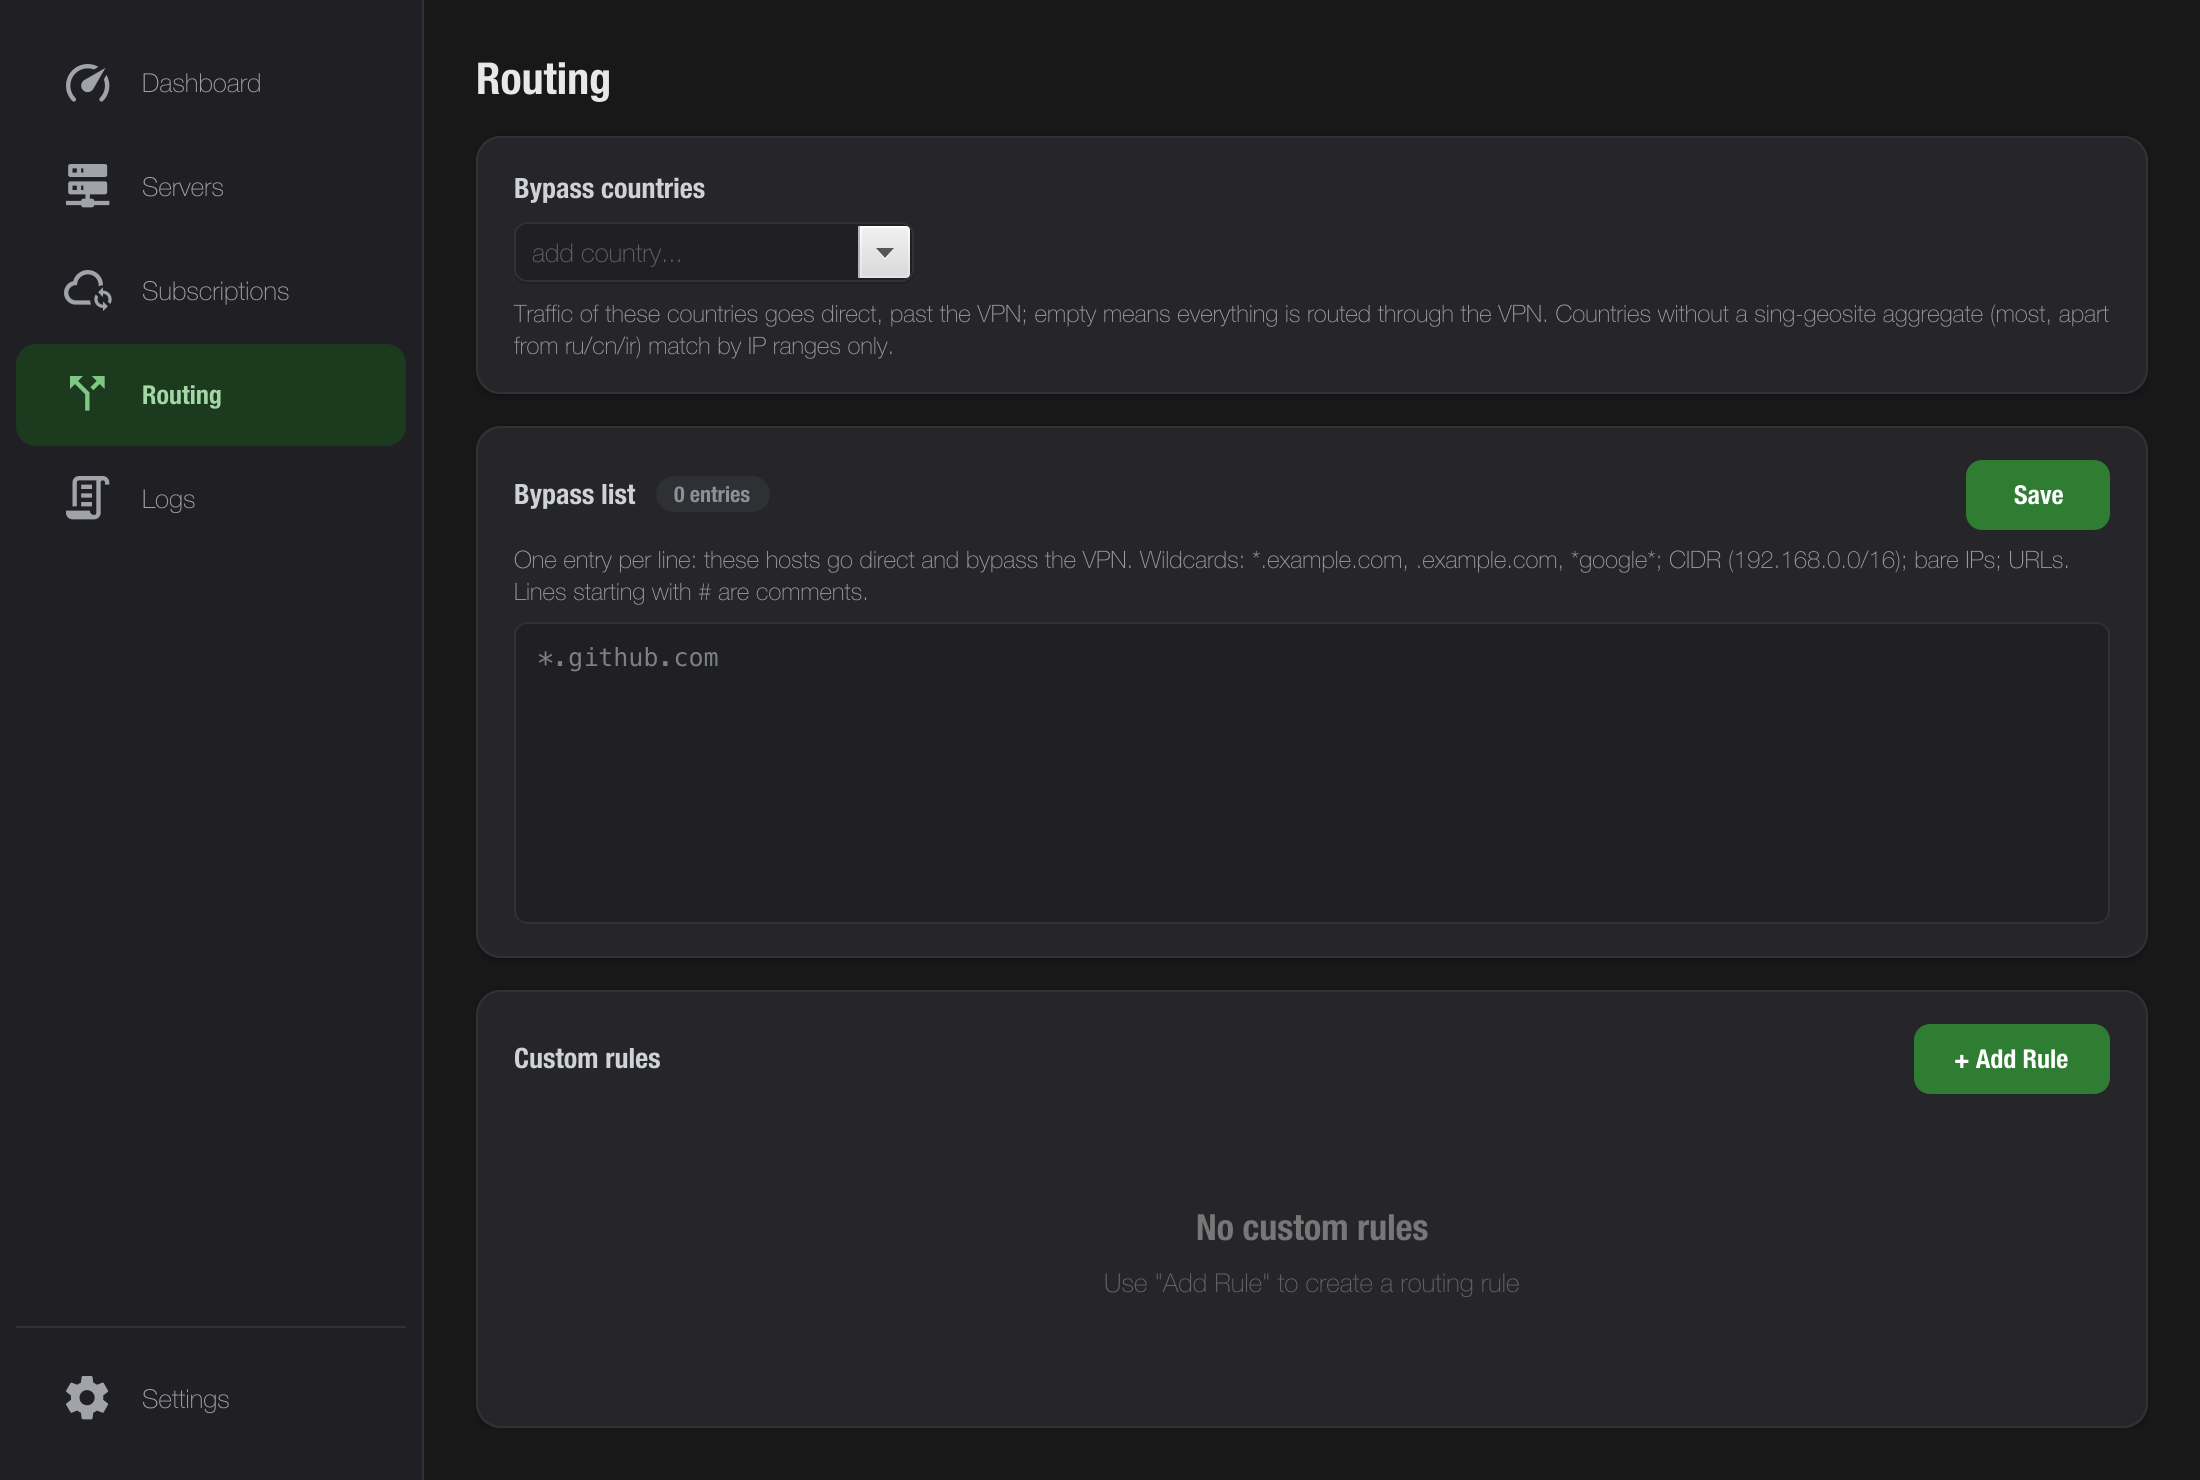
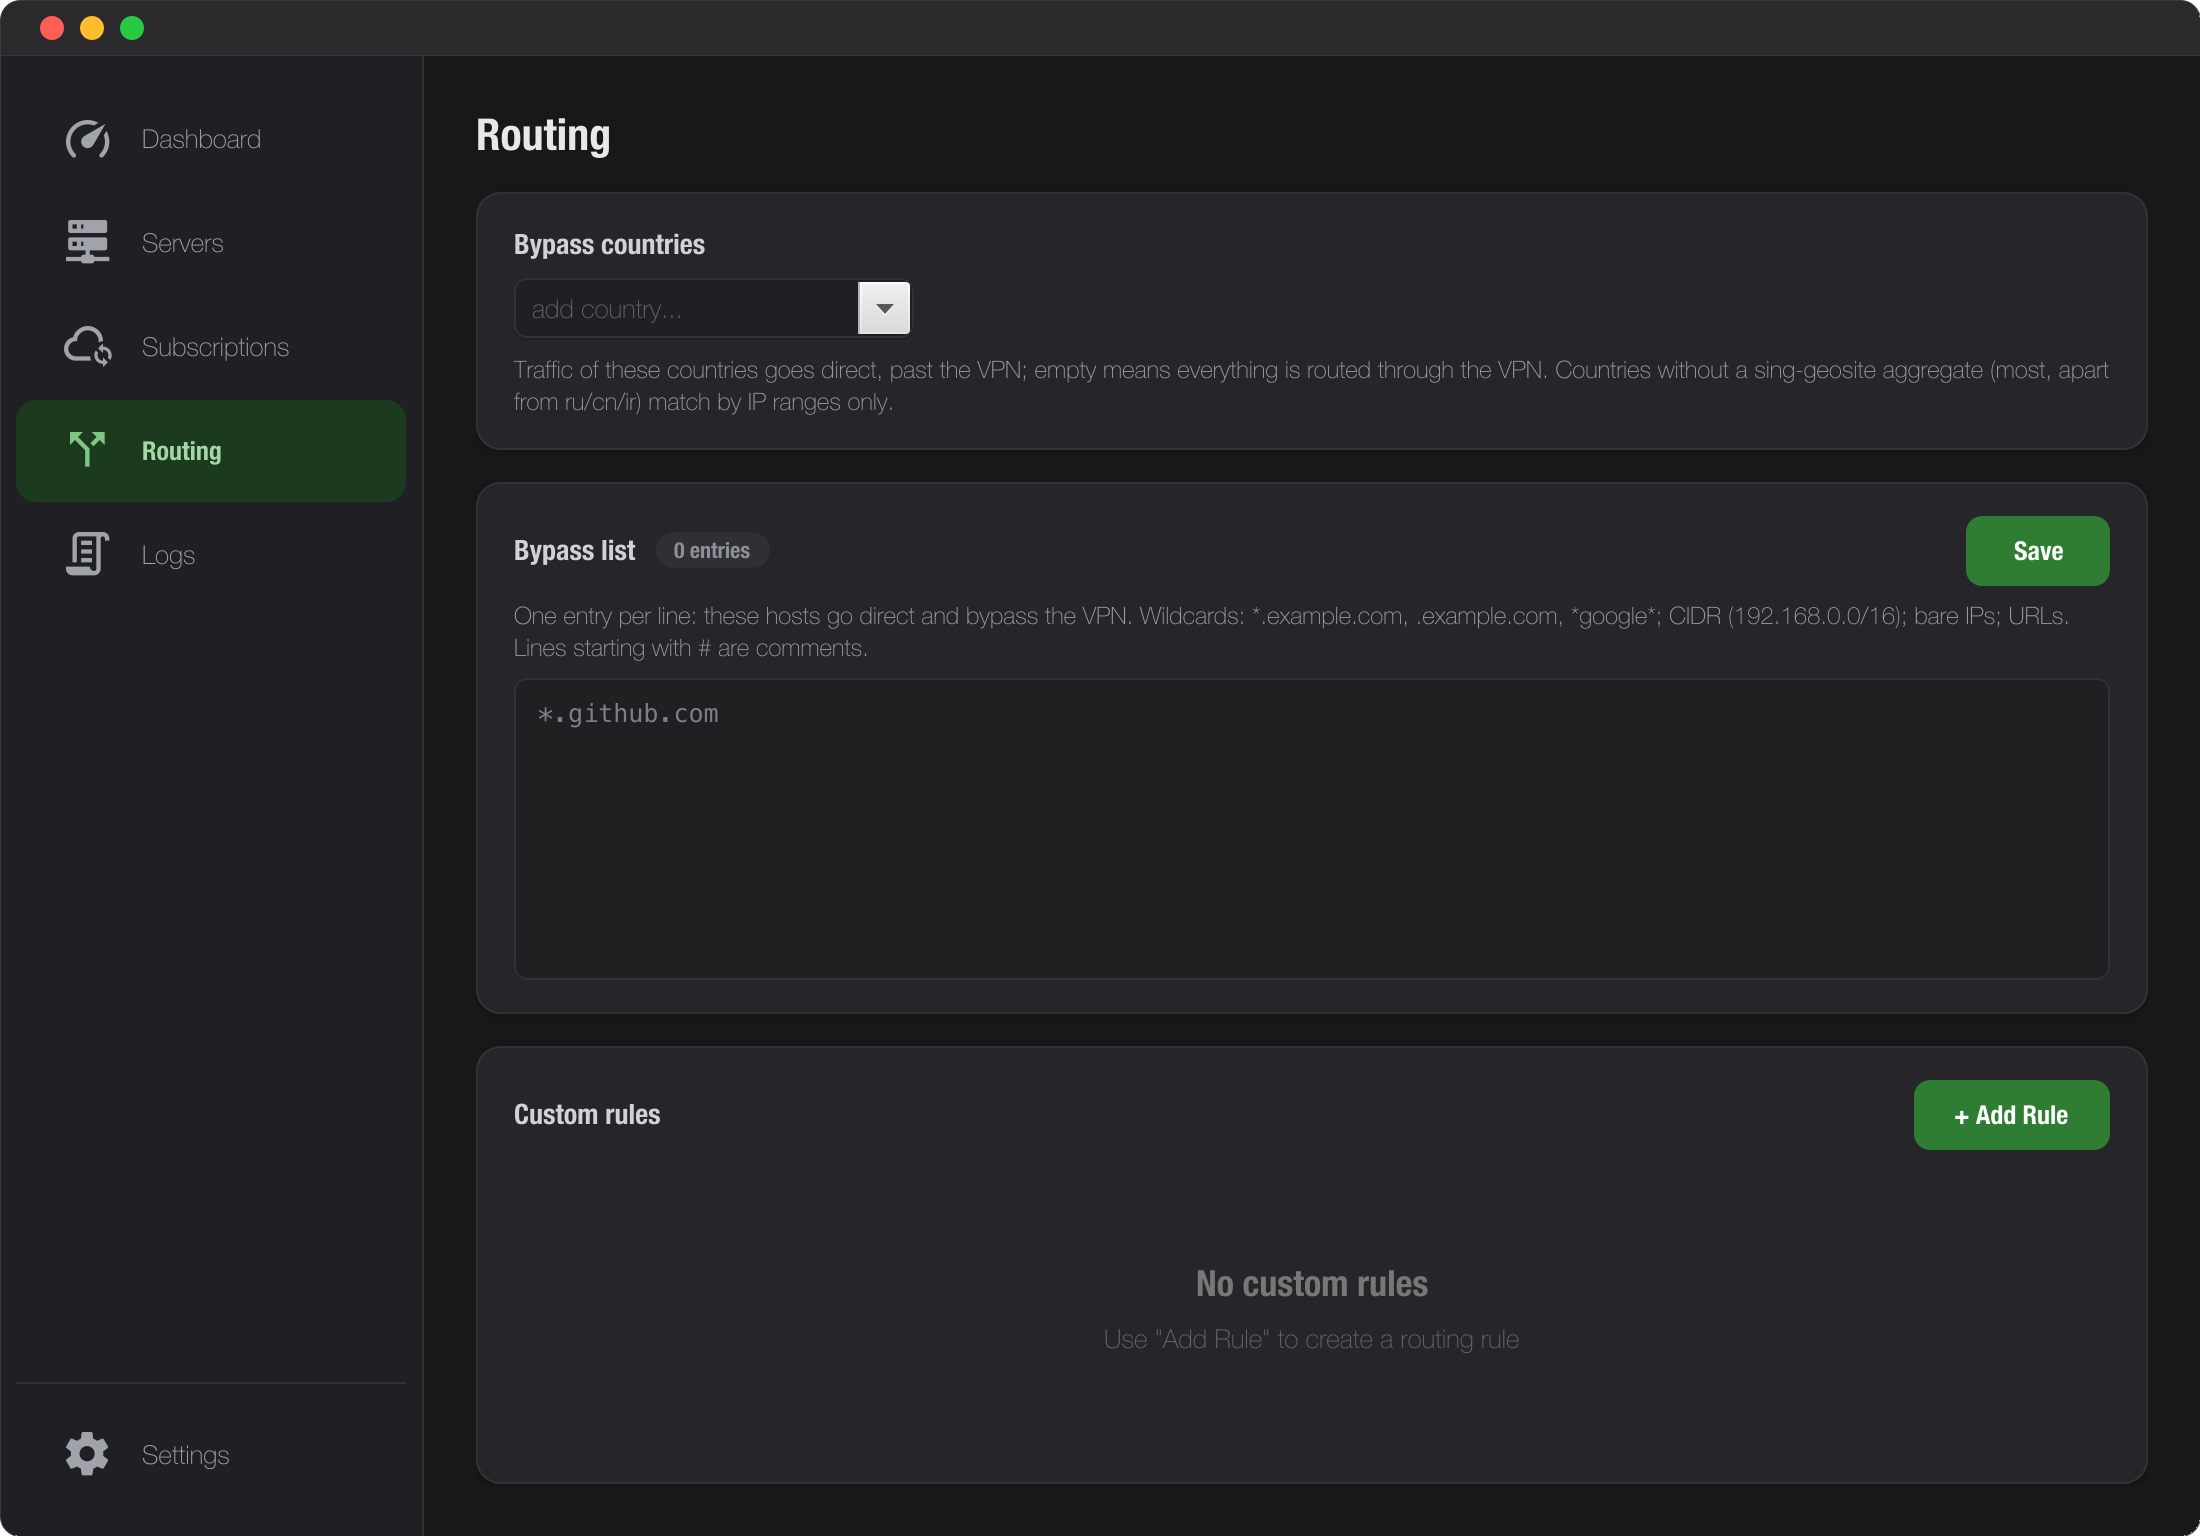
docs(readme): frame the screenshots as windows and show the new tabs
The screenshots were bare rectangles: Monocle renders offscreen, so a
snapshot has no window chrome and the result reads as a mockup rather than
as an application. Every capture is now wrapped in macOS chrome -- traffic
lights, rounded corners, a hairline edge -- drawn when the PNG is written
rather than faked inside the scene, so nothing in it can be mistaken for a
control the app actually has.

Two tabs had no picture at all. The traffic history added in #230 is the
feature this release is about and was described only in prose, and the
Subscriptions tab has never been shown despite the quota line being the
thing people ask about. Both are seeded through the real APIs, not by
writing fixture files: the history walks a clock day by day through the
store's own record(), so the bars, the per-server split and the month total
are computed by the code being documented.

Two bugs in that fixture were worth the trouble of finding. Leaving the
walking clock on tomorrow after the last sample shifted every bar one place
and ended the row on an empty day, and lastRefreshedAt is stored in millis
while expiresAt is seconds -- a seconds value there renders as 1970.

Also documents the unsaved-changes banner from #231 in Troubleshooting. It
is a banner every user can hit, and it was described only in the MCP
section.

diff --git a/src/test/java/com/vlessclient/ui/view/ScreenshotGenerator.java b/src/test/java/com/vlessclient/ui/view/ScreenshotGenerator.java
@@ -6,17 +6,24 @@ import com.vlessclient.model.ConnectionState;
 import com.vlessclient.model.HealthCheckTarget;
 import com.vlessclient.model.Protocol;
 import com.vlessclient.model.ServerConfig;
+import com.vlessclient.model.Subscription;
 import com.vlessclient.service.ConfigStore;
 import com.vlessclient.service.CountryResolver;
 import com.vlessclient.service.GeoIpDatabase;
 import com.vlessclient.service.LatencyTester;
 import com.vlessclient.service.ServiceReachabilityChecker;
 import com.vlessclient.service.SingBoxEngine;
+import com.vlessclient.service.SubscriptionService;
+import com.vlessclient.service.TrafficHistoryStore;
 import com.vlessclient.service.TrafficMonitor;
 import com.vlessclient.testing.UiTest;
 import java.io.File;
 import java.nio.file.Files;
 import java.nio.file.Path;
+import java.time.Clock;
+import java.time.Duration;
+import java.time.Instant;
+import java.time.ZoneId;
 import java.util.List;
 import java.util.Map;
 import java.util.Optional;
@@ -27,8 +34,11 @@ import javafx.fxml.FXMLLoader;
 import javafx.scene.Parent;
 import javafx.scene.Scene;
 import javafx.scene.SnapshotParameters;
+import javafx.scene.control.Label;
 import javafx.scene.image.PixelReader;
 import javafx.scene.image.WritableImage;
+import javafx.scene.input.MouseButton;
+import javafx.scene.input.MouseEvent;
 import javafx.scene.transform.Scale;
 import javafx.stage.Stage;
 import javax.imageio.ImageIO;
@@ -59,12 +69,19 @@ public class ScreenshotGenerator extends ApplicationTest {
 
     private static final Path OUT_DIR = Path.of("docs", "screenshots");
 
+    /** Days the dashboard's history panel plots, and so the fixture fills. */
+    private static final int WINDOW_DAYS = 30;
+
     private MainViewController mainController;
     private Parent windowRoot;
 
     @Override
     public void start(Stage stage) throws Exception {
         seedSampleServers();
+        seedSampleSubscriptions();
+        // Before the FXML loads: the dashboard picks the history store up in
+        // initialize(), so a store registered afterwards would never be seen.
+        seedTrafficHistory();
         // The offline test graph answers "unreachable" and "no country"; a
         // working install answers with latencies and flags, which is what the
         // screenshots document. Both doubles go in before the views load,
@@ -261,6 +278,107 @@ public class ScreenshotGenerator extends ApplicationTest {
         }
     }
 
+    /**
+     * Fills the history with a month of plausible days, through the store's own
+     * {@code record} API rather than by writing its JSON: what the screenshot
+     * shows is then what the code produces, including the per-server split and
+     * the month total the panel computes for itself.
+     *
+     * <p>The clock is walked forward a day at a time because a day bucket is
+     * chosen from {@code LocalDate.now(clock)} -- that is the only seam a
+     * caller has for landing samples on a date other than today.</p>
+     */
+    private void seedTrafficHistory() {
+        Path dataDir = Path.of(System.getProperty("vless.data.dir", "target/test-data-dir"));
+        WalkingClock clock = new WalkingClock(
+                Instant.now().minus(Duration.ofDays(WINDOW_DAYS - 1L)));
+        TrafficHistoryStore history = new TrafficHistoryStore(dataDir, clock);
+        history.reset();
+
+        List<ServerConfig> servers = ServiceLocator.get(ConfigStore.class).getServers();
+        ServerConfig busiest = servers.get(0);
+        ServerConfig second = servers.get(1);
+        // A fixed shape, not random: the screenshot has to look the same on
+        // every regeneration, or every run shows up as a diff in the repo.
+        int[] shape = {31, 44, 12, 58, 26, 8, 38, 52, 16, 34, 64, 28, 6, 40, 22,
+                       48, 14, 32, 54, 20, 36, 10, 44, 28, 60, 18, 30, 46, 24, 42};
+        for (int i = 0; i < shape.length; i++) {
+            // Advance between days, never after the last one: the panel reads
+            // its window from this same clock, so leaving it on tomorrow
+            // shifts every bar one place and ends the row on an empty day.
+            if (i > 0) {
+                clock.advance(Duration.ofDays(1));
+            }
+            history.record(busiest, shape[i] * 7_000_000L, shape[i] * 90_000_000L);
+            history.record(second, shape[i] * 2_000_000L, shape[i] * 24_000_000L);
+        }
+        history.flush();
+        ServiceLocator.register(TrafficHistoryStore.class, history);
+    }
+
+    /** A clock the fixture walks forward, so samples land on past days. */
+    private static final class WalkingClock extends Clock {
+        private Instant now;
+
+        WalkingClock(Instant start) {
+            this.now = start;
+        }
+
+        void advance(Duration by) {
+            now = now.plus(by);
+        }
+
+        @Override
+        public ZoneId getZone() {
+            return ZoneId.systemDefault();
+        }
+
+        @Override
+        public Clock withZone(ZoneId zone) {
+            return this;
+        }
+
+        @Override
+        public Instant instant() {
+            return now;
+        }
+    }
+
+    /**
+     * Two subscriptions with what a provider reports in
+     * {@code subscription-userinfo}, added straight to the service's list: the
+     * real add() fetches the URL, and the screenshot runner has no network.
+     */
+    private void seedSampleSubscriptions() {
+        SubscriptionService subscriptions = ServiceLocator.get(SubscriptionService.class);
+        subscriptions.getSubscriptions().clear();
+        subscriptions.getSubscriptions().addAll(
+                subscription("Nordic Nodes", "https://sub.example.net/link/aBcD1234",
+                        3, 211_140_000_000L, 18_400_000_000L, 500_000_000_000L, 47),
+                subscription("Backup Provider", "https://vpn.example.org/api/v1/client/sub",
+                        2, 4_180_000_000L, 610_000_000L, 100_000_000_000L, 12));
+    }
+
+    private static Subscription subscription(String name, String url, int servers,
+                                             long down, long up, long total, int daysLeft) {
+        Subscription sub = new Subscription();
+        sub.setName(name);
+        sub.setUrl(url);
+        // Millis here, seconds in setExpiresAt: the model stores the two in
+        // different units, and a seconds value read as millis renders as 1970.
+        sub.setLastRefreshedAt(Instant.now().minus(Duration.ofHours(6)).toEpochMilli());
+        sub.setDownloadBytes(down);
+        sub.setUploadBytes(up);
+        sub.setTotalBytes(total);
+        sub.setExpiresAt(Instant.now().plus(Duration.ofDays(daysLeft)).getEpochSecond());
+        List<String> ids = new java.util.ArrayList<>();
+        for (int i = 0; i < servers; i++) {
+            ids.add("seeded-" + name + "-" + i);
+        }
+        sub.setServerIds(ids);
+        return sub;
+    }
+
     /** Seeds a measurement without a network round-trip. */
     private static void recordLatency(LatencyTester tester, String serverId, long millis) {
         try {
@@ -293,7 +411,20 @@ public class ScreenshotGenerator extends ApplicationTest {
             showConnectedState();
         });
         capture("dashboard", controller -> controller.showDashboard());
+
+        // The history panel is collapsed by default, which is what the hero
+        // shot above documents; open it through the control a user opens it
+        // with, so the second shot cannot show a state the app cannot reach.
+        interact(() -> {
+            Label sessionTotal = lookup("#sessionTotalLabel").query();
+            sessionTotal.fireEvent(new MouseEvent(MouseEvent.MOUSE_CLICKED,
+                    0, 0, 0, 0, MouseButton.PRIMARY, 1,
+                    false, false, false, false, true, false, false, false, false, false, null));
+        });
+        capture("traffic-history", controller -> controller.showDashboard());
+
         capture("servers", controller -> controller.showServers());
+        capture("subscriptions", controller -> controller.showSubscriptions());
         capture("routing", controller -> controller.showRouting());
         capture("settings", controller -> controller.showSettings());
     }
@@ -335,8 +466,65 @@ public class ScreenshotGenerator extends ApplicationTest {
                 buffered.setRGB(x, y, reader.getArgb(x, y));
             }
         }
-        ImageIO.write(buffered, "png", target);
+        java.awt.image.BufferedImage framed = inWindowChrome(buffered);
+        ImageIO.write(framed, "png", target);
         System.out.println("WROTE " + target.getAbsolutePath()
-                + " (" + width + "x" + height + ")");
+                + " (" + framed.getWidth() + "x" + framed.getHeight() + ")");
+    }
+
+    /**
+     * Wraps a snapshot in macOS window chrome: a title bar with the three
+     * traffic lights, rounded corners and a hairline edge.
+     *
+     * <p>Monocle renders into an offscreen buffer and there is no real window
+     * to capture, so the scene comes out as a bare rectangle -- which reads as
+     * a mockup rather than as an application. The chrome is drawn here instead
+     * of being faked inside the scene, so nothing in it can be mistaken for a
+     * control the app actually has.</p>
+     *
+     * <p>Corners are transparent, which is why these are PNGs with alpha: the
+     * README renders on both the light and the dark GitHub theme.</p>
+     */
+    private static java.awt.image.BufferedImage inWindowChrome(
+            java.awt.image.BufferedImage content) {
+        int bar = (int) (28 * SCALE);
+        int corner = (int) (10 * SCALE);
+        int dot = (int) (12 * SCALE);
+        int gap = (int) (8 * SCALE);
+        int inset = (int) (20 * SCALE);
+
+        int width = content.getWidth();
+        int height = content.getHeight() + bar;
+        java.awt.image.BufferedImage out = new java.awt.image.BufferedImage(
+                width, height, java.awt.image.BufferedImage.TYPE_INT_ARGB);
+        java.awt.Graphics2D g = out.createGraphics();
+        g.setRenderingHint(java.awt.RenderingHints.KEY_ANTIALIASING,
+                java.awt.RenderingHints.VALUE_ANTIALIAS_ON);
+
+        java.awt.geom.RoundRectangle2D window = new java.awt.geom.RoundRectangle2D.Double(
+                0, 0, width, height, corner * 2.0, corner * 2.0);
+        g.setClip(window);
+
+        // Chrome one step lighter than the app's own window background, the
+        // same relationship a real title bar has to the view under it.
+        g.setColor(new java.awt.Color(0x2A2A2D));
+        g.fillRect(0, 0, width, bar);
+        g.drawImage(content, 0, bar, null);
+
+        g.setColor(new java.awt.Color(0x38383C));
+        g.fillRect(0, bar - 1, width, 1);
+
+        int[] lights = {0xFF5F57, 0xFEBC2E, 0x28C840};
+        for (int i = 0; i < lights.length; i++) {
+            g.setColor(new java.awt.Color(lights[i]));
+            g.fillOval(inset + i * (dot + gap), (bar - dot) / 2, dot, dot);
+        }
+
+        g.setClip(null);
+        g.setColor(new java.awt.Color(0x3A3A3D));
+        g.setStroke(new java.awt.BasicStroke(1f));
+        g.draw(window);
+        g.dispose();
+        return out;
     }
 }

diff --git a/README.md b/README.md
@@ -212,6 +212,10 @@ carries a `subscription-userinfo` header ("12.3 GB of 100 GB used · expires
 …"). Links of protocols Tunl does not support (TUIC, AnyTLS, …) are left out
 without marking the subscription failed.
 
+<p align="center">
+  <img src="docs/screenshots/subscriptions.png" width="900" alt="Subscriptions tab: two providers with the quota each reports and its expiry date"/>
+</p>
+
 ### Routing
 
 <p align="center">
@@ -238,6 +242,10 @@ month's figure — kept locally and cleared only from the **Clear** link there,
 since nothing in it expires on its own. Those totals are what this client
 sampled, not your provider's accounting; a subscription's own quota is on the
 **Subscriptions** tab.
+
+<p align="center">
+  <img src="docs/screenshots/traffic-history.png" width="900" alt="The traffic panel opened: 30 daily bars, the busiest servers and this month's total"/>
+</p>
 
 **Logs** streams sing-box logs with a level filter (how much the core writes
 is **Settings → Core log level**); the download button saves the core log,
@@ -442,6 +450,12 @@ That's Gatekeeper and an unsigned build — walk through the
 **macOS: the app is blocked again after an update**
 Expected until builds are signed — every new binary goes through Gatekeeper
 afresh. Same procedure.
+
+**A banner says changes have not been saved**
+A configuration write failed — usually a full disk or a data directory that
+lost its permissions. The app keeps the change in memory and leaves the banner
+up; fix the cause and press **Retry saving**. Quitting before it succeeds
+loses the change, not the whole file.
 
 **Connect button is disabled**
 No active server — on the Servers tab click a server so it gets the
